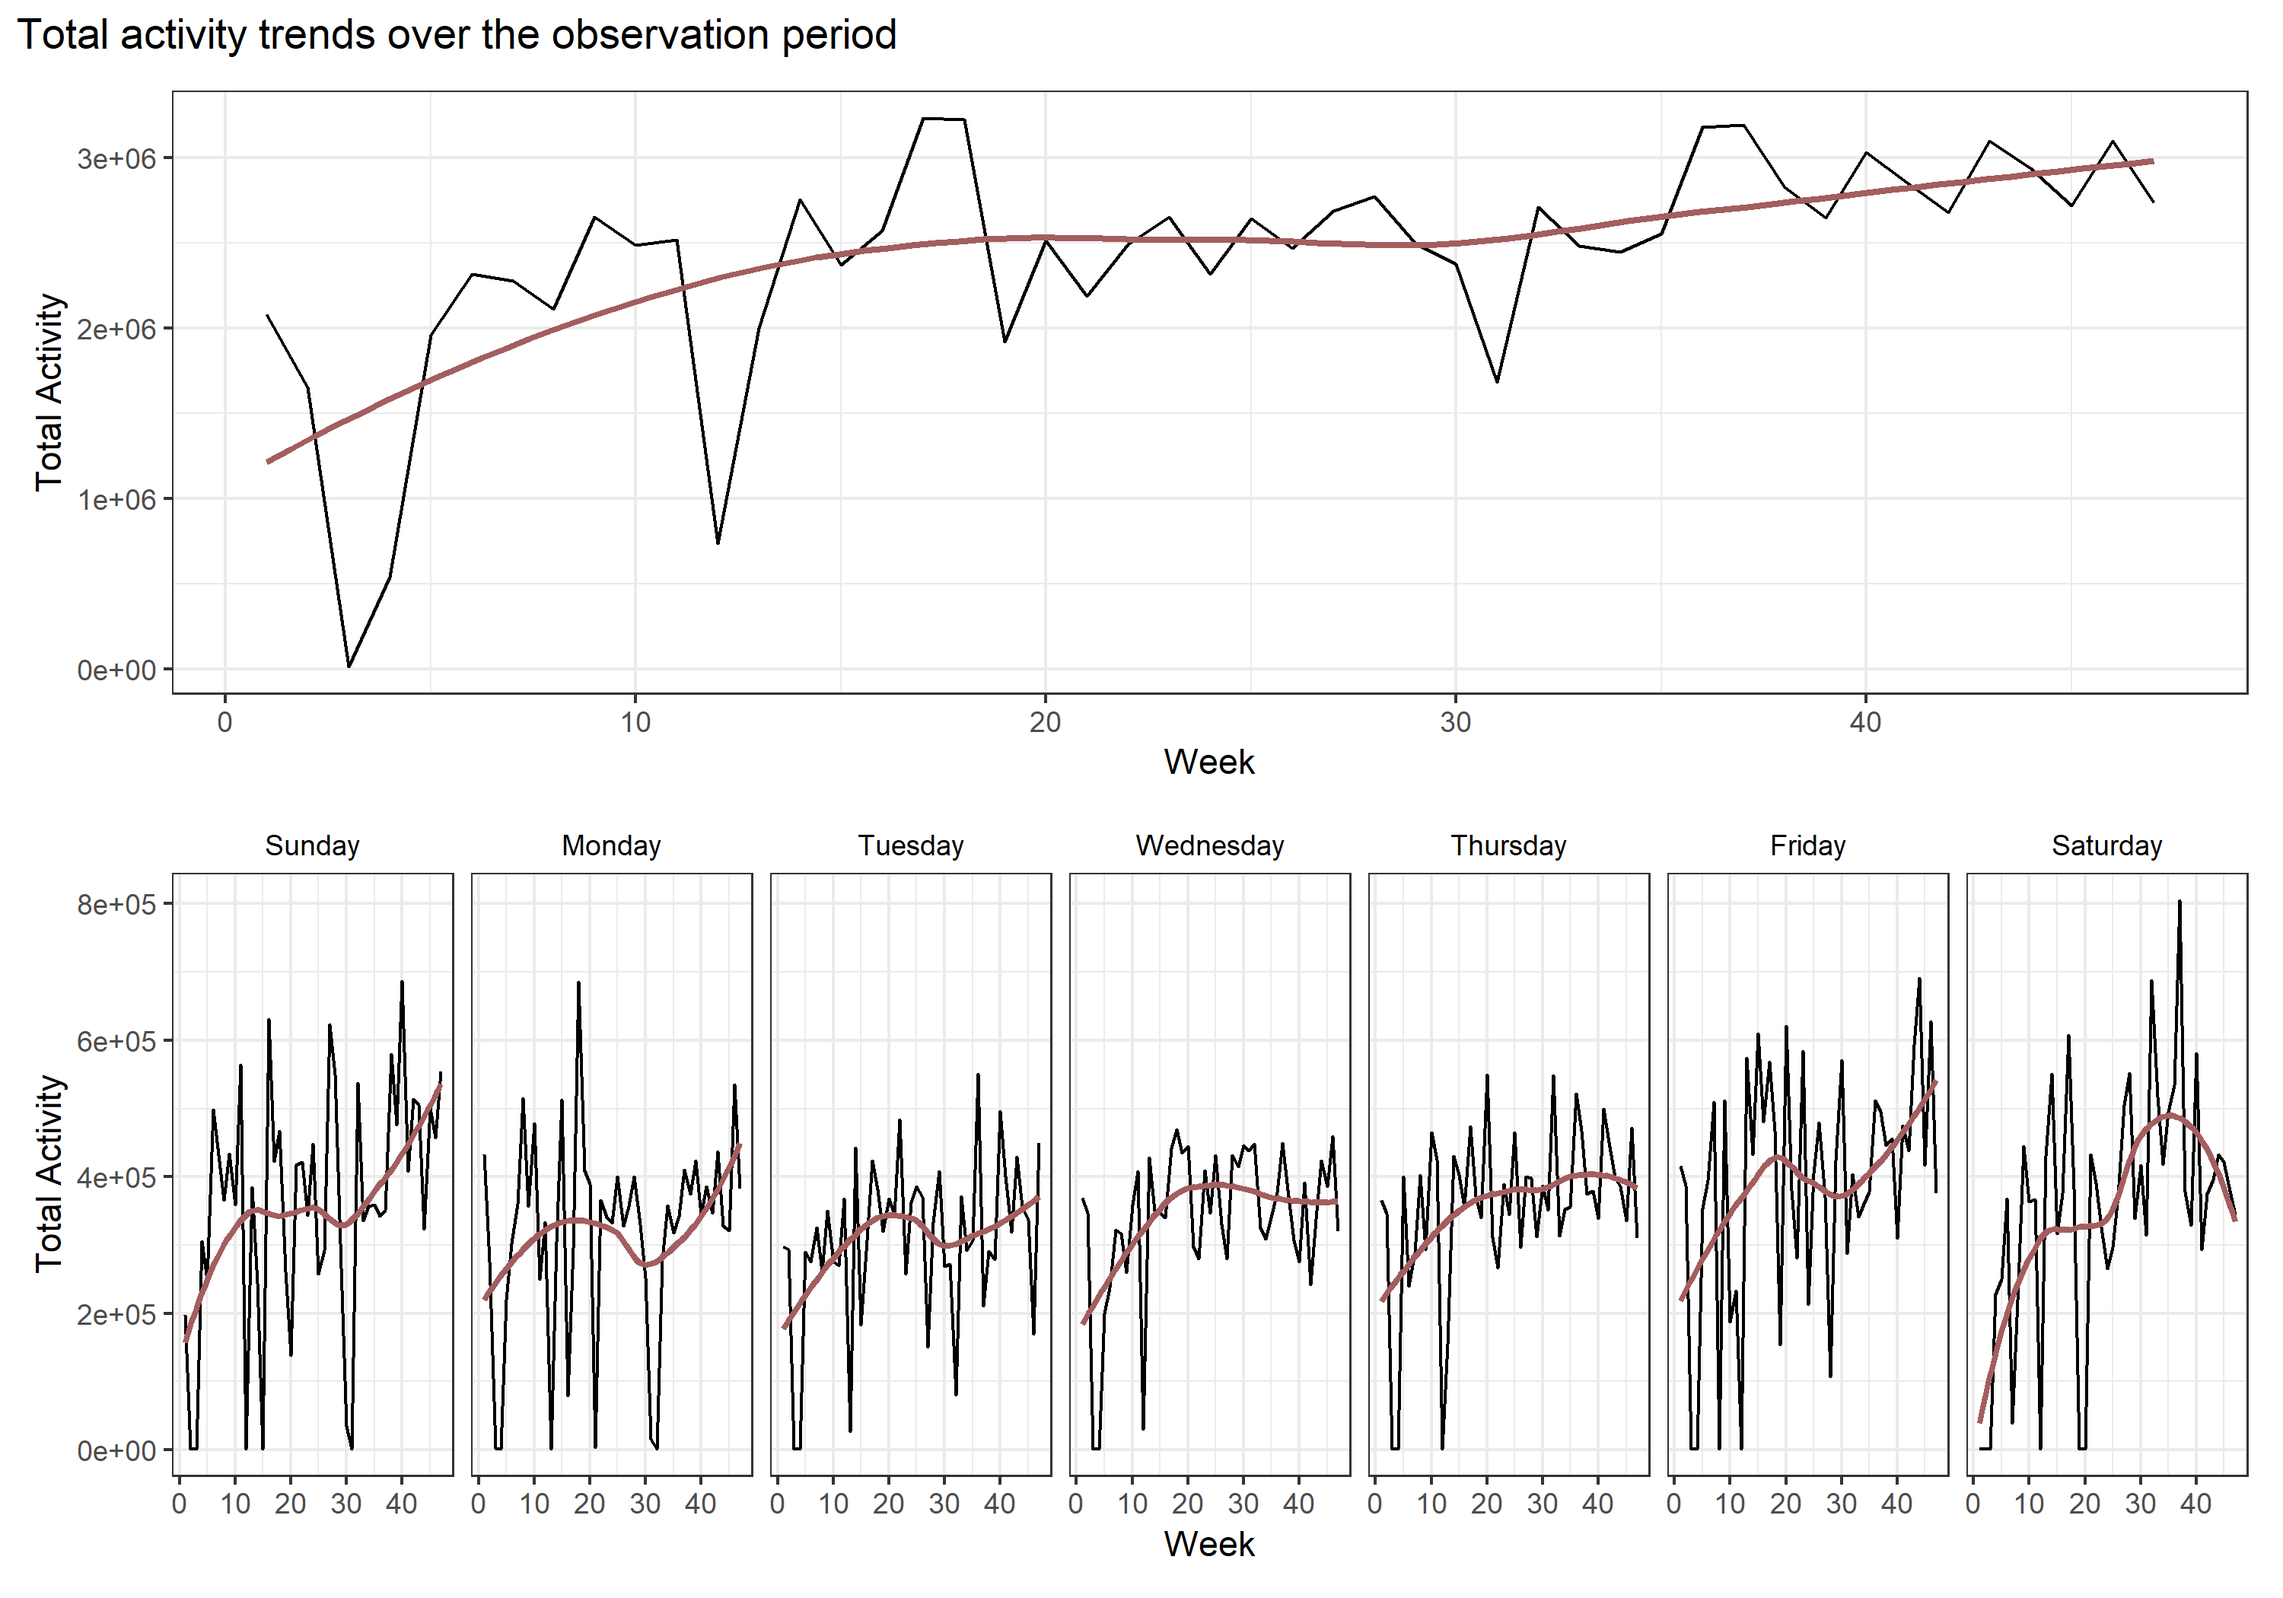
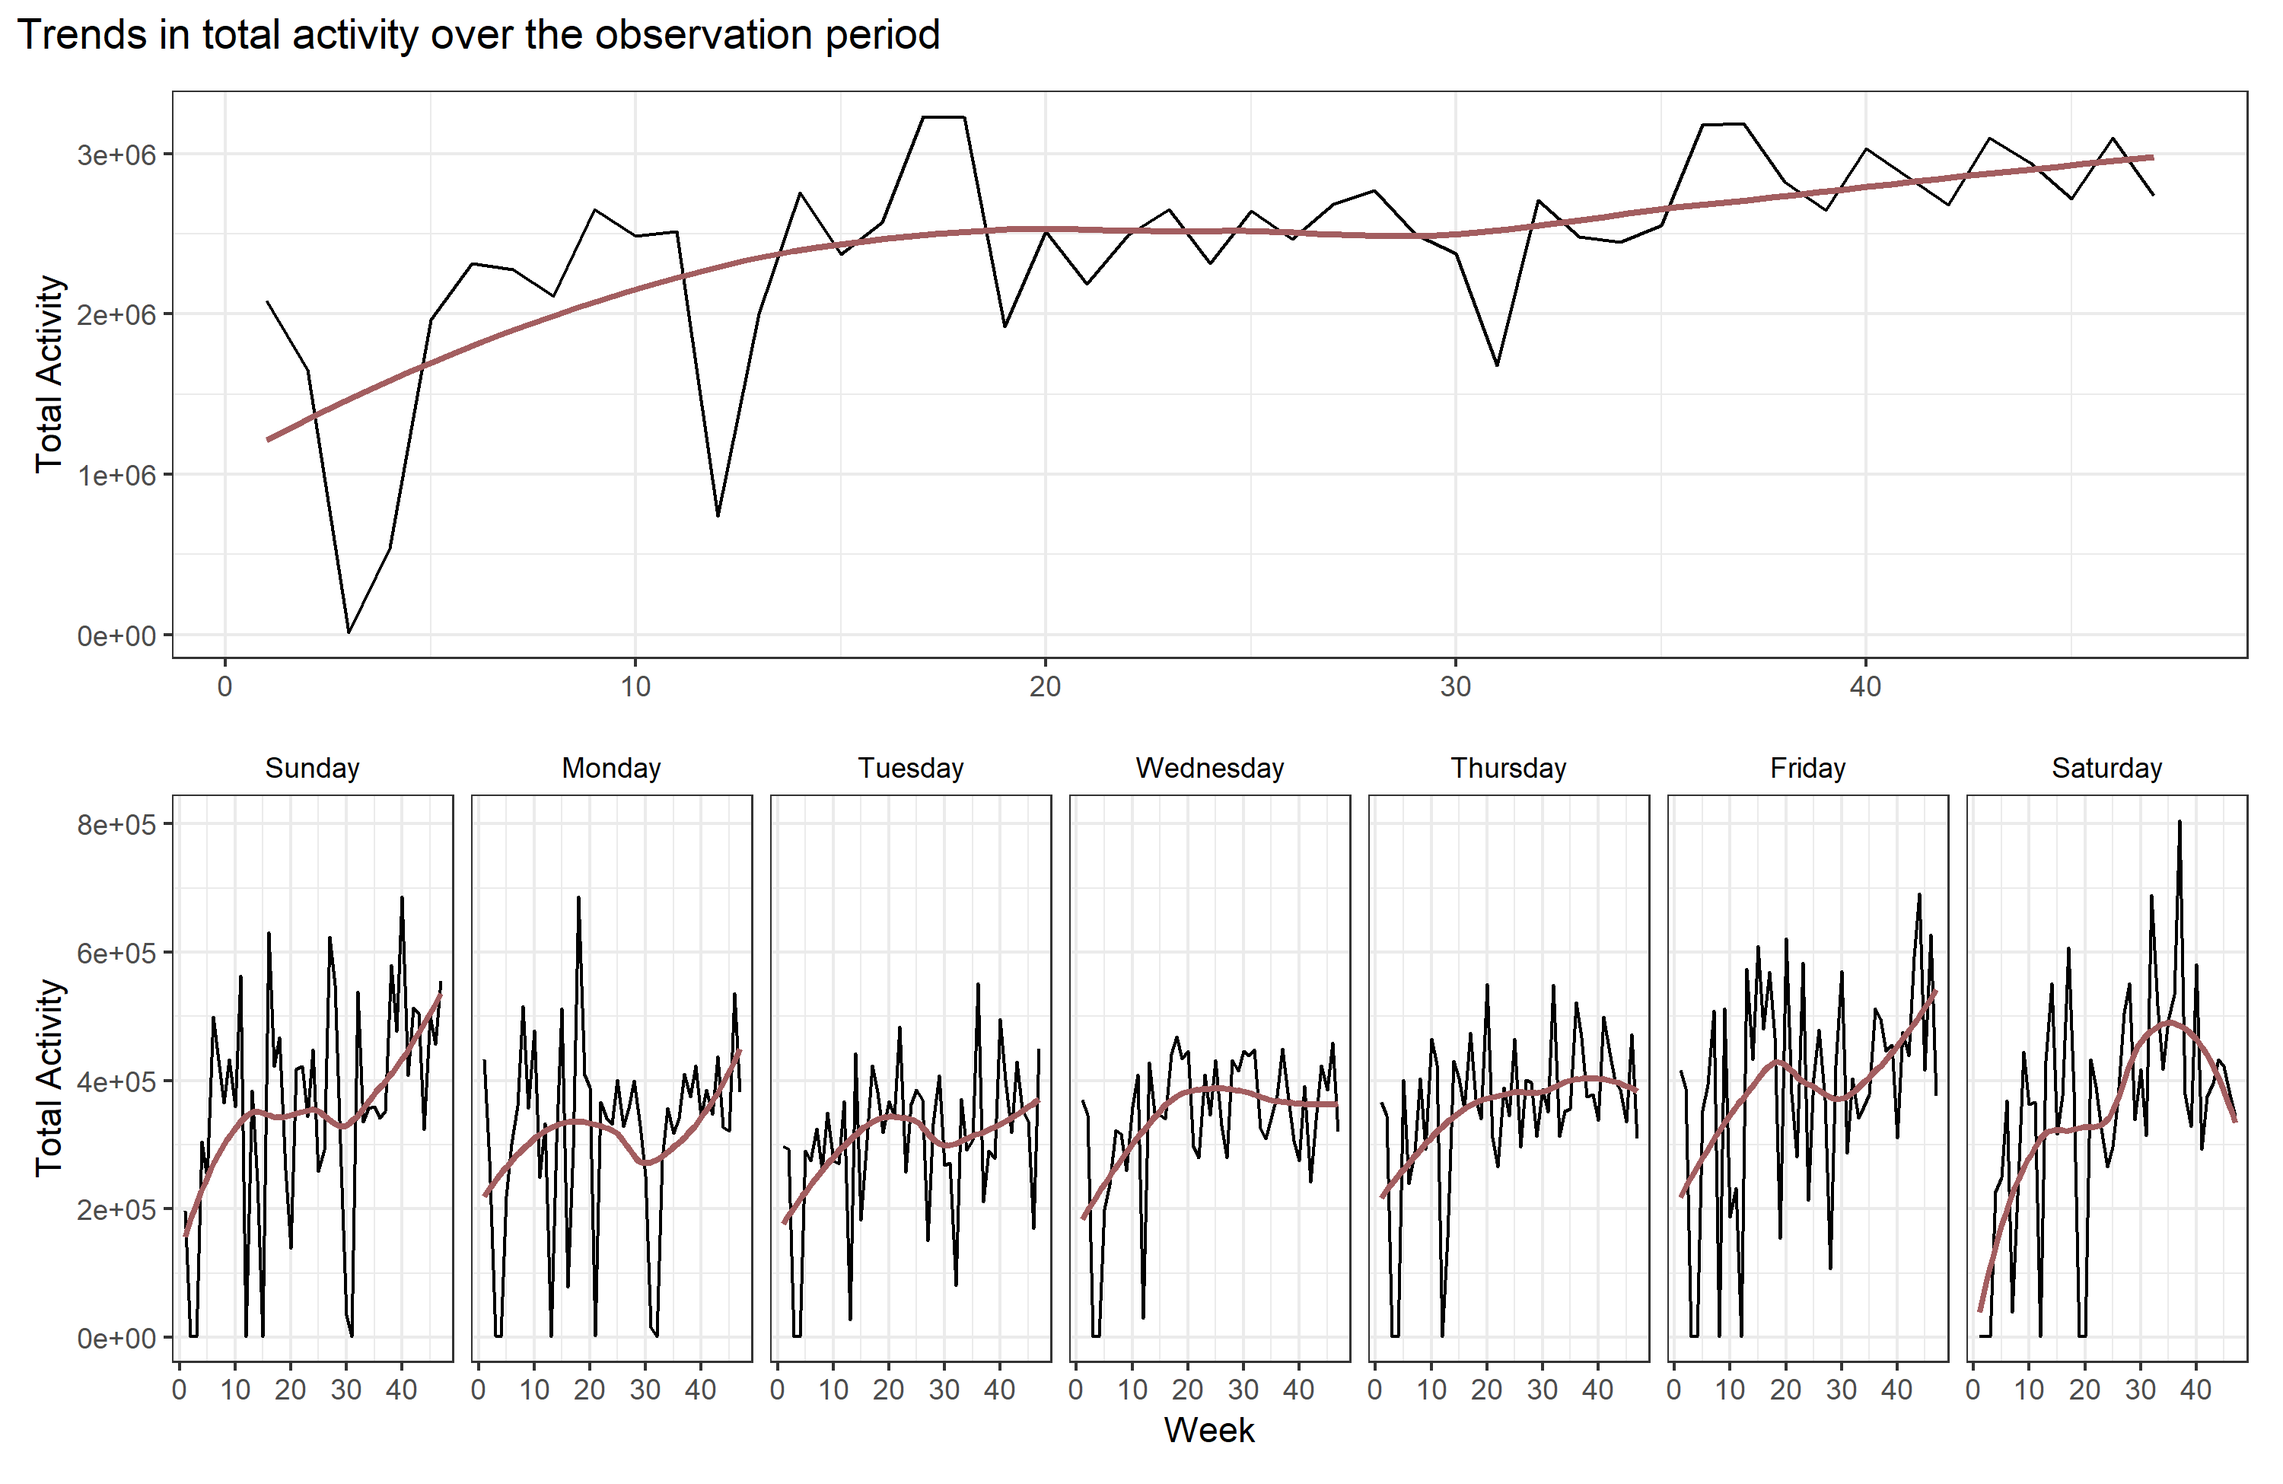
axed last plot

diff --git a/p8105_mtp_ntw2117.md b/p8105_mtp_ntw2117.md
@@ -125,38 +125,34 @@ wrap_elements(density_full / (density_zoom_1 + density_zoom_2)) +
   ggtitle("Density plots of log activity count with zoomed axis")
 ```
 
-<img src="p8105_mtp_ntw2117_files/figure-markdown_github/density plots of activity over the weeks-1.png" width="75%" align="center" style="display: block; margin: auto;" class="center"/>
+<img src="p8105_mtp_ntw2117_files/figure-markdown_github/density plots of activity over the weeks-1.png" width="75%" style="display: block; margin: auto;" />
 
 ``` r
-accel_data %>% 
+geo_agg_activity <- accel_data %>% 
   group_by(day) %>% 
   mutate(log_actvty = log(activity_count)) %>% 
   summarize(geo_avg_actvty = exp(mean(log_actvty))) %>%
   ggplot(aes(x = day, y = geo_avg_actvty)) + 
   geom_point(size = 4, color = "#A35E60") + 
   geom_line(group = 1) + 
-  labs(title = "Geometric average activity count by the day of the week", 
+  labs(title = "Geometric average activity by the day of the week", 
        x = "Day of the week", 
-       y = "Geometric average activity count", 
-       caption = "Data provided by Jeff Goldmsith, PhD")
-```
+       y = "Geometric average activity count")
 
-<img src="p8105_mtp_ntw2117_files/figure-markdown_github/activity by day line plot-1.png" width="70%" style="display: block; margin: auto;" />
-
-``` r
-accel_data %>% 
+total_agg_activity <- accel_data %>% 
   group_by(day) %>% 
   summarize(total_actvty = sum(activity_count)) %>%
   ggplot(aes(x = day, y = total_actvty)) + 
   geom_point(size = 4, color = "#A35E60") + 
   geom_line(group = 1) + 
-  labs(title = "Total activity count by the day of the week", 
+  labs(title = "Total activity by the day of the week", 
        x = "Day of the week", 
-       y = "Total activity count", 
-       caption = "Data provided by Jeff Goldmsith, PhD")
+       y = "Total activity count")
+
+total_agg_activity + geo_agg_activity
 ```
 
-<img src="p8105_mtp_ntw2117_files/figure-markdown_github/activity by day line plot-2.png" width="70%" style="display: block; margin: auto;" />
+<img src="p8105_mtp_ntw2117_files/figure-markdown_github/activity by day line plot-1.png" width="100%" style="display: block; margin: auto;" />
 
 There must be some days in which the individual was very active on Sundays and not very active on Mondays and Tuesdays that we see opposite plots. The geometric mean plot shows a weekly trend in activity while the total activity plot shows the days where the most and least activity occured throughout the whole observation period.
 
@@ -203,8 +199,8 @@ total_actvty <- accel_data %>%
   ggplot(aes(x = week, y = total_actvty)) + 
   geom_line() + 
   geom_smooth(color = "#A35E60", se = FALSE) + 
-  labs(x = "Week", 
-       y = "Total Activity")
+  labs(y = "Total Activity") + 
+  theme(axis.title.x = element_blank())
 
 total_actvty_week_day <- accel_data %>% 
   group_by(week, day) %>% 
@@ -224,52 +220,3 @@ wrap_elements(total_actvty / total_actvty_week_day) +
 ```
 
 <img src="p8105_mtp_ntw2117_files/figure-markdown_github/total activity across weeks-1.png" width="100%" style="display: block; margin: auto;" />
-
-``` r
-total_actvty_week_day <- accel_data %>% 
-  group_by(week, day) %>% 
-  summarize(total_actvty = sum(activity_count)) %>% # using geometric mean due to how skewed data is
-  ggplot(aes(x = week, y = total_actvty)) + 
-  facet_grid(~ day) + 
-  geom_line() + 
-  labs(x = "Week", 
-       y = "Total Activity Count") + 
-  geom_smooth(color = "#A35E60", se = FALSE) + 
-  theme(strip.background = element_blank(), 
-        strip.text = element_text(color = "black"),
-        axis.text.x = element_blank(), 
-        axis.title.x = element_blank()
-  )
-        
-med_actvty_week_day <- accel_data %>% 
-  group_by(week, day) %>% 
-  summarize(med_actvty = median(activity_count)) %>% 
-  ggplot(aes(x = week, y = med_actvty)) + 
-  facet_grid(~ day) + 
-  geom_line() + 
-  labs(y = "Median Activity Count") +
-  geom_smooth(color = "#A35E60", size = 1, se = FALSE) + 
-  theme(strip.background = element_blank(),
-        strip.text = element_blank(),
-        axis.text.x = element_blank(), 
-        axis.title.x = element_blank()
-  )
-
-mean_actvty_week_day <- accel_data %>% 
-  group_by(week, day) %>% 
-  mutate(log_actvty = log(activity_count)) %>% 
-  summarize(geo_avg_actvty = exp(mean(log_actvty))) %>% # using geometric mean due to how skewed data is
-  ggplot(aes(x = week, y = geo_avg_actvty)) + 
-  facet_grid(~ day) + 
-  geom_line() + 
-  labs(x = "Week", 
-       y = "Geometric Mean Activity Count") + 
-  geom_smooth(color = "#A35E60", se = FALSE) + 
-  theme(strip.background = element_blank(), 
-        strip.text = element_blank())
-
-wrap_elements(total_actvty_week_day / med_actvty_week_day / mean_actvty_week_day) + 
-  ggtitle("Total median and geometric mean activity count over time stratified by the day of the week")
-```
-
-<img src="p8105_mtp_ntw2117_files/figure-markdown_github/plotting the mean and median activity count across weeks by day-1.png" width="100%" style="display: block; margin: auto;" />
